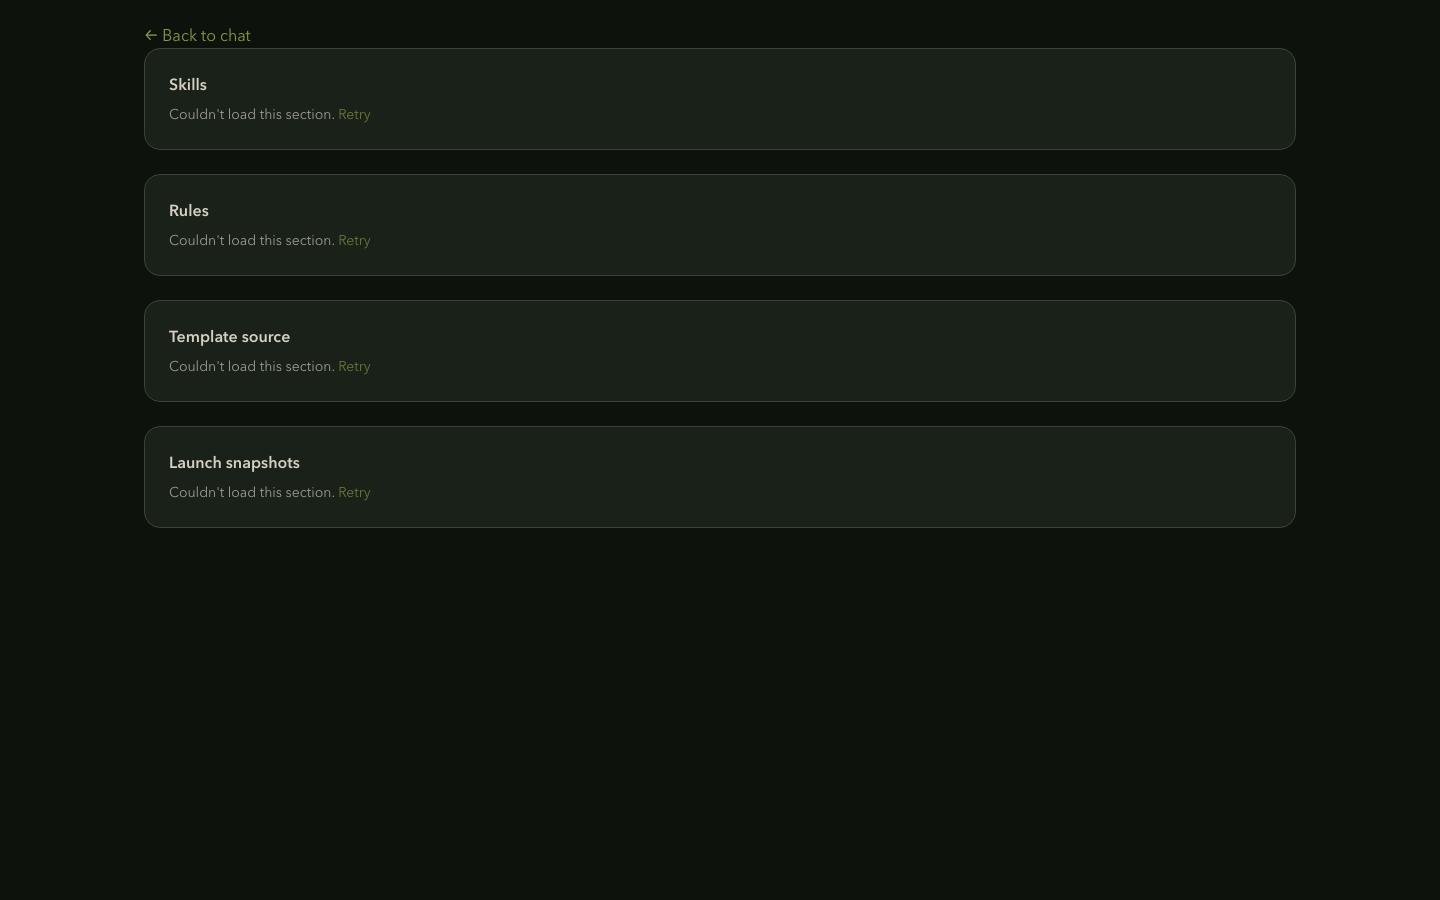
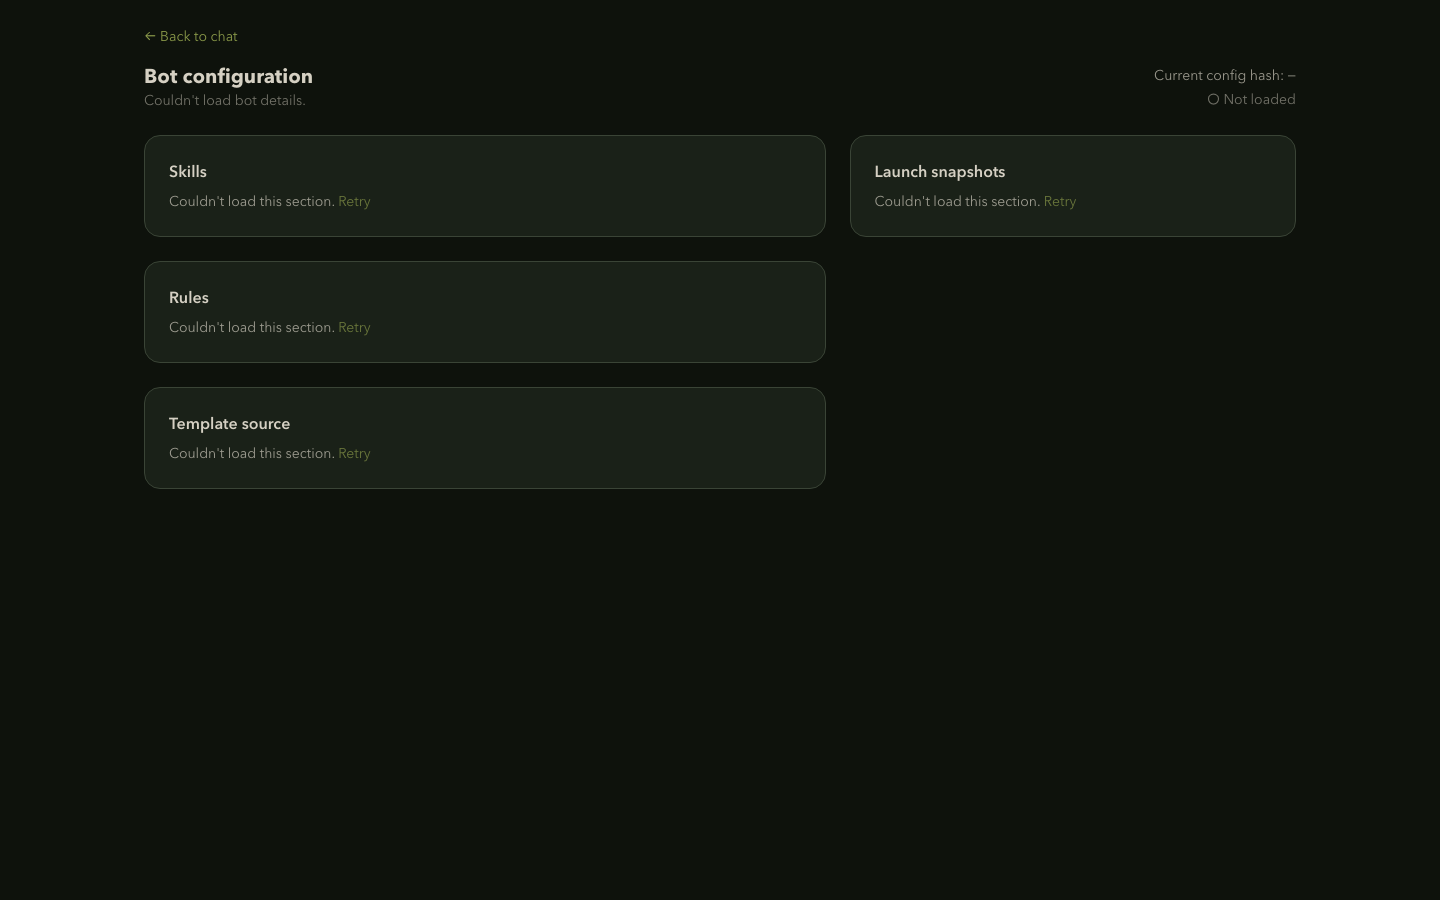
NOT-412: operator capture pass at c91d729 (C1-C7, rows 7-8, 10-12) and local command results

diff --git a/docs/PARITY.md b/docs/PARITY.md
@@ -230,3 +230,25 @@ loaded" error status (no "Saved" claim).
 - Computer preview overlay, chief-of-staff page read, and coding-limb
   UI: main-only agent-loop features. Reason: built on main after the
   snapshot; styled with the same tokens.
+
+## Operator pass at c91d729 (2026-10-12 08:30–08:40 PT)
+
+Captured with Playwright headless Chromium against `next start -p 43200`
+(production build of c91d729; 43123 is occupied by the owner's own instance),
+seed fixture DB, no mocks except C2 (PATCH held open) and C4 (GET 500).
+All `docs/parity/config-*.png`, `thread-*.png`, `unread-cleared.png` and
+`unread-hover.png` were overwritten from this run.
+
+- C1 `config-loaded.png` / `config-loaded-390.png`: real seed data. Save is muted before any edit (fix c); Back to chat has a gap above the header (fix b).
+- C2 `config-saving.png`, `config-dirty.png` (dirty state, Save active), C3 `config-saved.png`.
+- C4 `config-error.png`: full header with "Bot configuration", "Couldn't load bot details.", hash "—", "○ Not loaded" (fix a).
+- C5 `config-not-found.png`, C6 `config-snapshots-empty.png` (Alice).
+- C7 `config-snapshots-two.png`: first snapshot expanded next to the Template source card (fix d). The labels match the snapshot fields. The remaining visual difference: the card shows "—" in a label/value row, while the snapshot shows "null" stacked under the label. That is for Atelier to judge.
+- Rows 10–12: `thread-draft.png`, `thread-approval.png`, `thread-file.png` (CardMint thread, `--thread-cards` seed).
+- Row 7 `unread-cleared.png`: Cedar thread, no menu (current right).
+- Row 8 `unread-hover.png`: hovering Alice shows the tooltip, but no "Unread" line, even though the seed sets Alice unread=1 (`/api/bots` reports unread 1 before load). This is still DRIFT. It comes from roster code (NOT-409 area), not the config page.
+
+Command results at c91d729 (local, Mac, network on):
+lint 0 · build 0 · tsc --noEmit 0 · test:snapshot 0 · test:delegation 0 · test:thread-actions 0 · test:agent-loop-extras 0 ·
+test:marketplace-import 1 (returnCleanup fails; identical failure on origin/main cce7768, pre-existing) ·
+test:acceptance 1 (step 6 needs OPENAI_API_KEY; same on origin/main).
